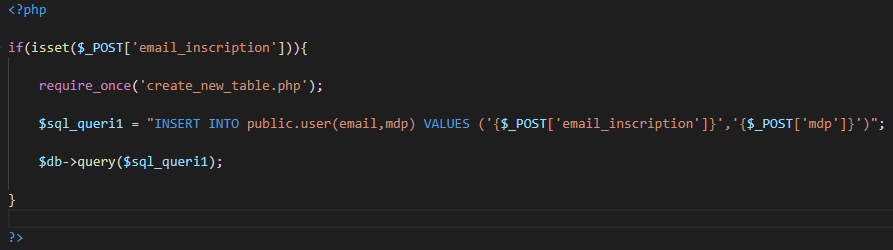
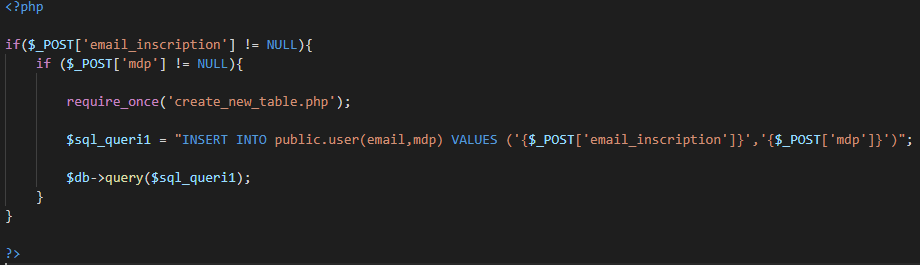
rm

diff --git a/PHP/DATABASE/inscription_user.php b/PHP/DATABASE/inscription_user.php
@@ -1,13 +1,14 @@
 <?php 
 
-if(isset($_POST['email_inscription'])){
+if($_POST['email_inscription'] != NULL){
+    if ($_POST['mdp'] != NULL){
     
-    require_once('create_new_table.php');
+        require_once('create_new_table.php');
 
-    $sql_queri1 = "INSERT INTO public.user(email,mdp) VALUES ('{$_POST['email_inscription']}','{$_POST['mdp']}')";
+        $sql_queri1 = "INSERT INTO public.user(email,mdp) VALUES ('{$_POST['email_inscription']}','{$_POST['mdp']}')";
 
-    $db->query($sql_queri1);
-
+        $db->query($sql_queri1);
+    }
 }
 
 ?>

diff --git a/README.md b/README.md
@@ -9,9 +9,12 @@ Le fichier create_new_table.php va permettre de créer la table si elle n'exsite
 
 ### Inscription Utilisateur
 
+L'utilisateur va pouvoir s'inscrire si il rentre un email et un mot de passe.
+
 ![inscription](MEDIA/img/inscription.PNG)
 
 ### Connexion Utilisateur
 
+Pour se connecter il suffit de rentrer les identifiants que l'on a mis lors de l'inscription.
 
 ![Connexion](MEDIA/img/connexion.PNG)
